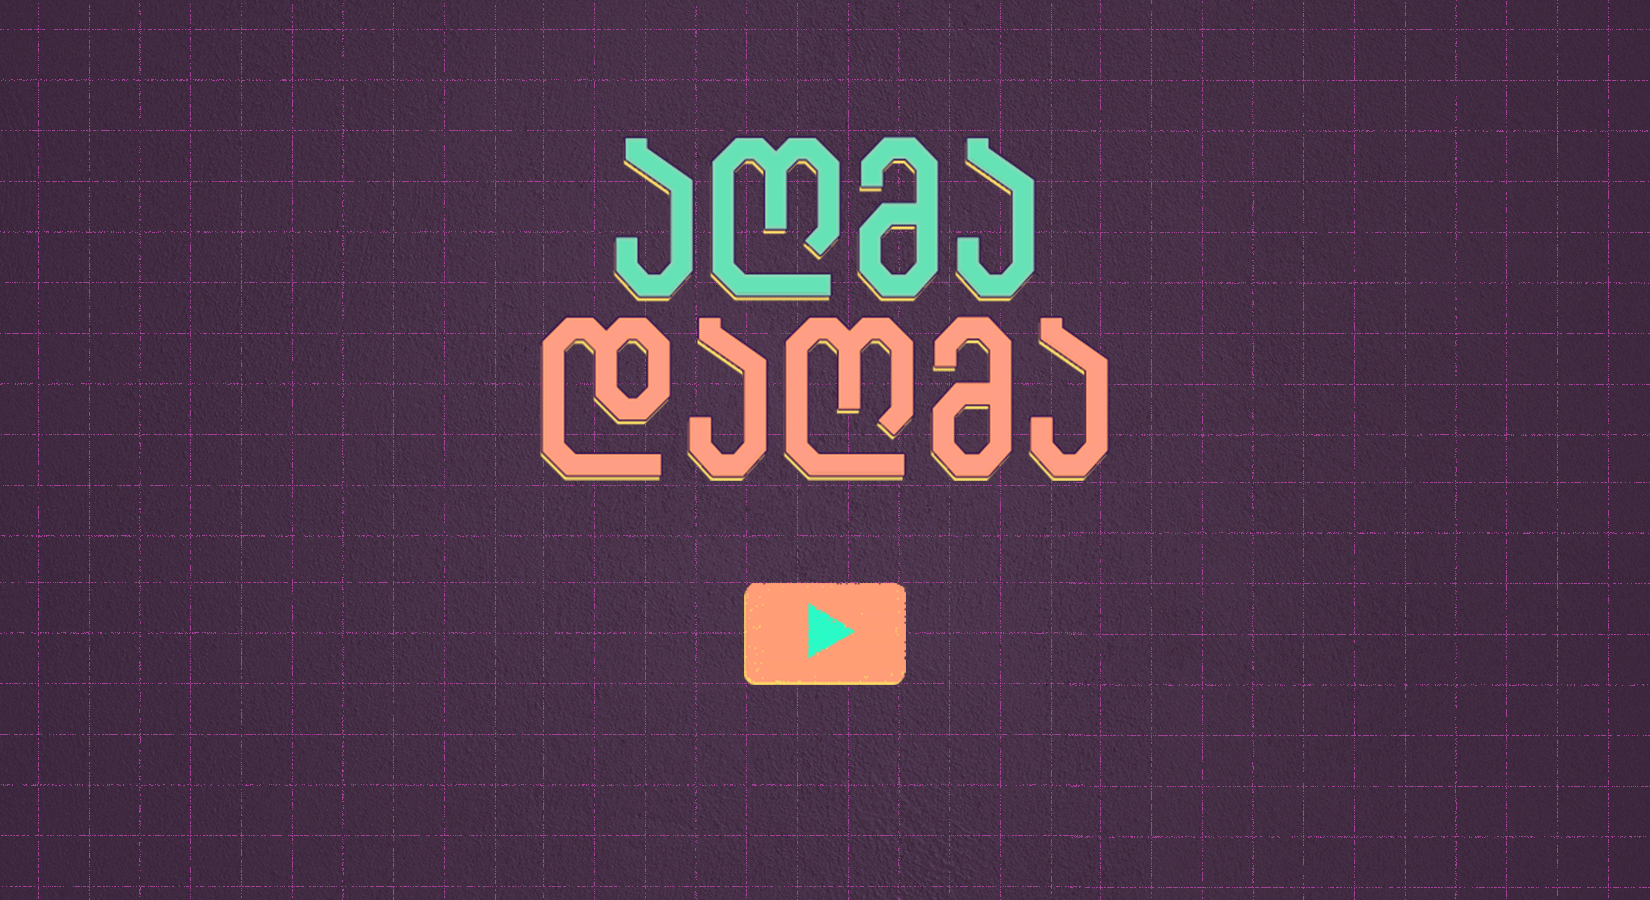
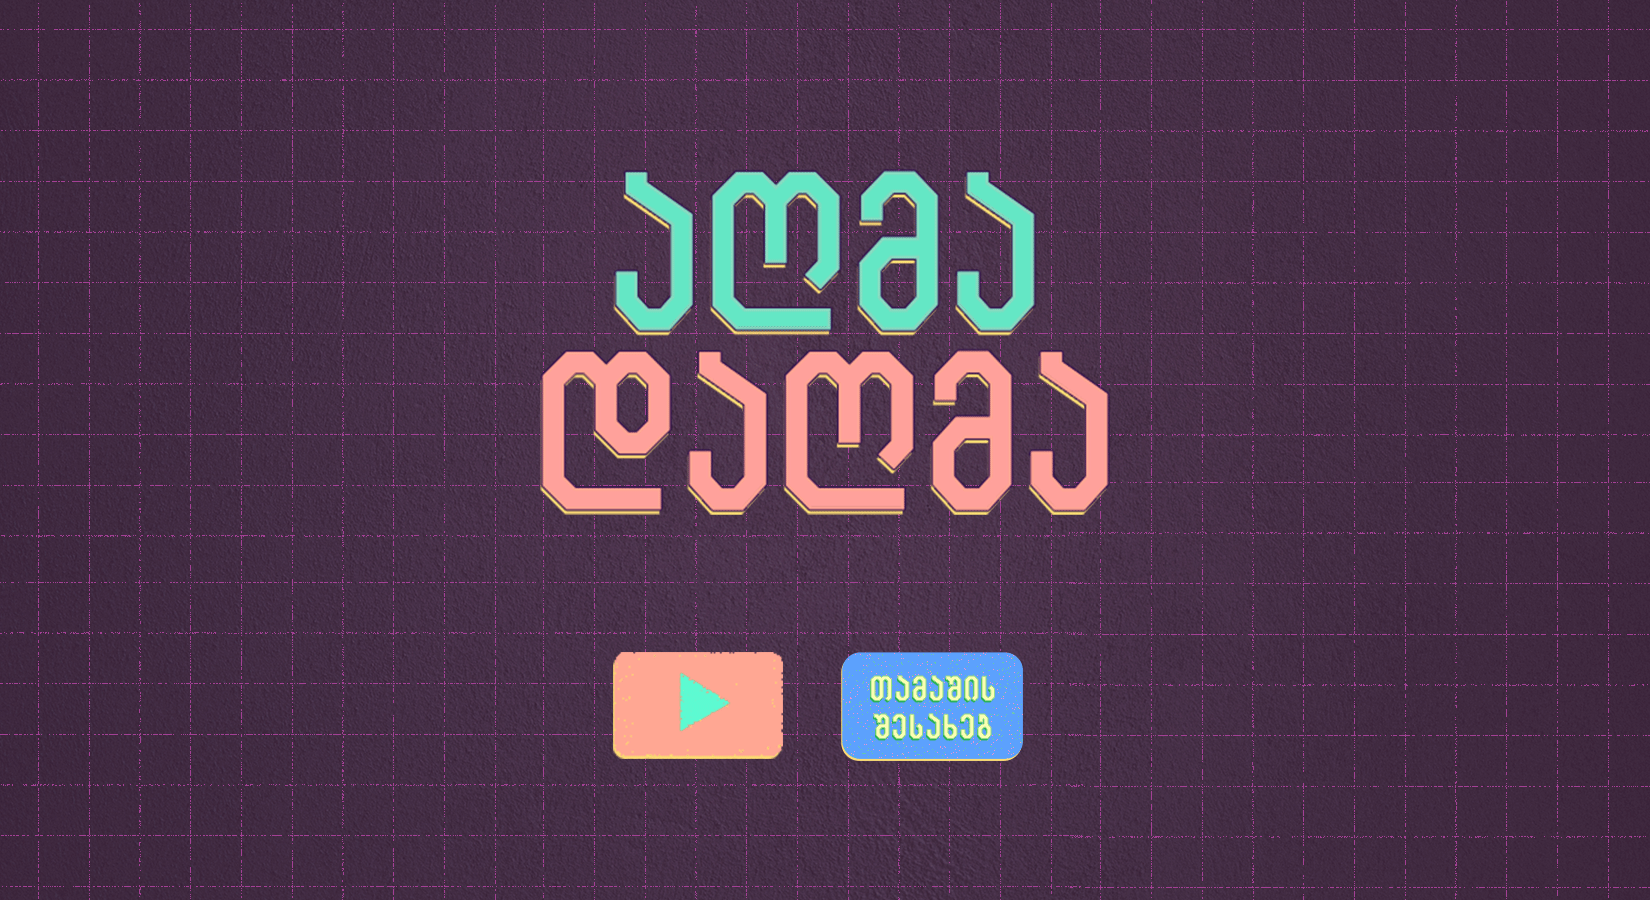
add some stuf

Changed region(s): [[0.3091, 0.1556, 0.68, 0.5911], [0.3709, 0.6222, 0.6182, 0.8711]]

diff --git a/src/scripts/scenes/intro.ts b/src/scripts/scenes/intro.ts
@@ -6,6 +6,7 @@ export default class Intro extends Phaser.Scene {
   preload() {
     this.load.image('intro', 'assets/Intro.png')
     this.load.image('howTo', 'assets/howtoplay.png')
+    this.load.image('about', 'assets/about.png')
   }
 
   create() {
@@ -13,16 +14,20 @@ export default class Intro extends Phaser.Scene {
 
     this.add.image(this.sys.canvas.width / 2, this.sys.canvas.height / 2, 'intro')
 
-    let rect = this.add.rectangle(this.sys.canvas.width / 2, 633, 160, 100, 0xf66712, 0).setInteractive({
+    let rect = this.add.rectangle(699, 703, 170, 110, 0xf66712, 0).setInteractive({
       useHandCursor: true
+    })
+
+    let about = this.add.rectangle(932, 703, 184, 110, 0xf66712, 0).setInteractive({
+      useHandCursor: true
+    })
+
+    about.on('pointerdown', () => {
+      this.scene.start('about')
     })
 
     rect.on('pointerdown', () => {
       this.scene.start('howTo')
-    })
-
-    rect.on('pointerup', () => {
-      this.scale.startFullscreen()
     })
 
     space.on('down', () => {

diff --git a/src/scripts/game.ts b/src/scripts/game.ts
@@ -10,6 +10,7 @@ import homeWin2 from './scenes/homeWin2'
 import jobWin2 from './scenes/jobWin2'
 import Intro from './scenes/intro'
 import howTo from './scenes/howTo'
+import About from './scenes/about'
 
 const DEFAULT_WIDTH = 1650
 const DEFAULT_HEIGHT = 900
@@ -24,7 +25,7 @@ const config = {
   height: DEFAULT_HEIGHT,
   backgroundColor: '#ffffff',
   parent: 'phaser-game',
-  scene: [Intro, howTo, Menu, Level1, Level2, Win1, Lose1, homeLose2, jobLose2, homeWin2, jobWin2],
+  scene: [Intro, About, howTo, Menu, Level1, Level2, Win1, Lose1, homeLose2, jobLose2, homeWin2, jobWin2],
   physics: {
     default: 'arcade'
   }

diff --git a/src/scripts/scenes/about.ts b/src/scripts/scenes/about.ts
@@ -1,0 +1,19 @@
+export default class About extends Phaser.Scene {
+  constructor() {
+    super('about')
+  }
+
+  create() {
+    this.add.image(this.sys.game.canvas.width / 2, this.sys.game.canvas.height / 2, 'about')
+
+    let rect = this.add
+      .rectangle(this.sys.game.canvas.width / 2, this.sys.game.canvas.height / 2 + 80, 170, 110, 0xfd8912, 0)
+      .setInteractive({
+        useHandCursor: true
+      })
+
+    rect.on('pointerdown', () => {
+      this.scene.start('howTo')
+    })
+  }
+}
